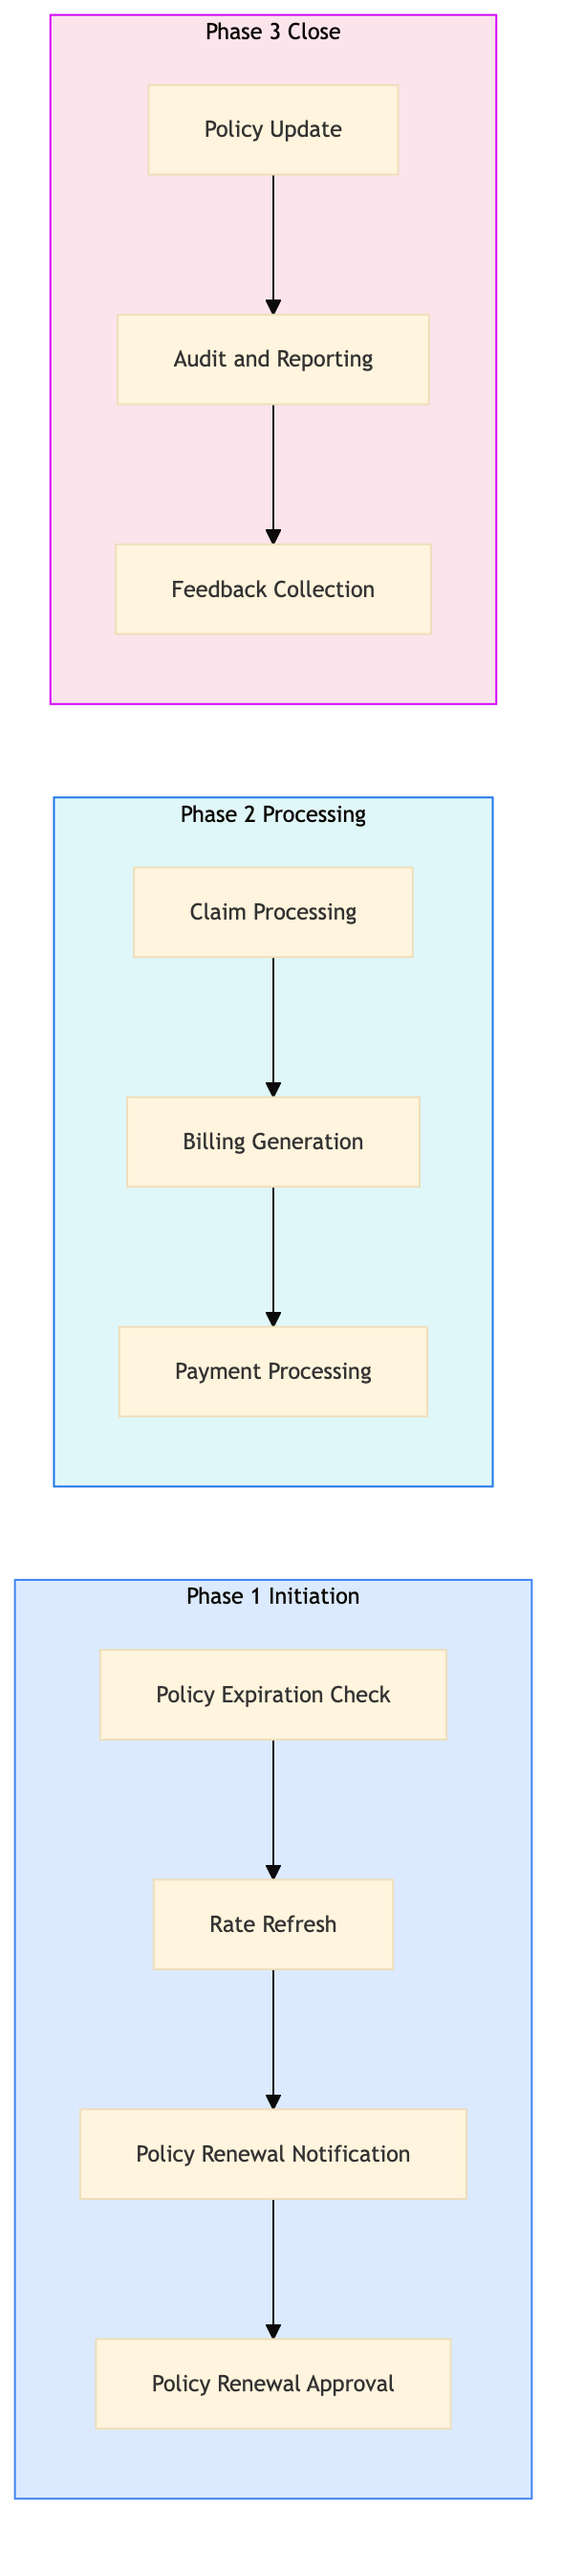
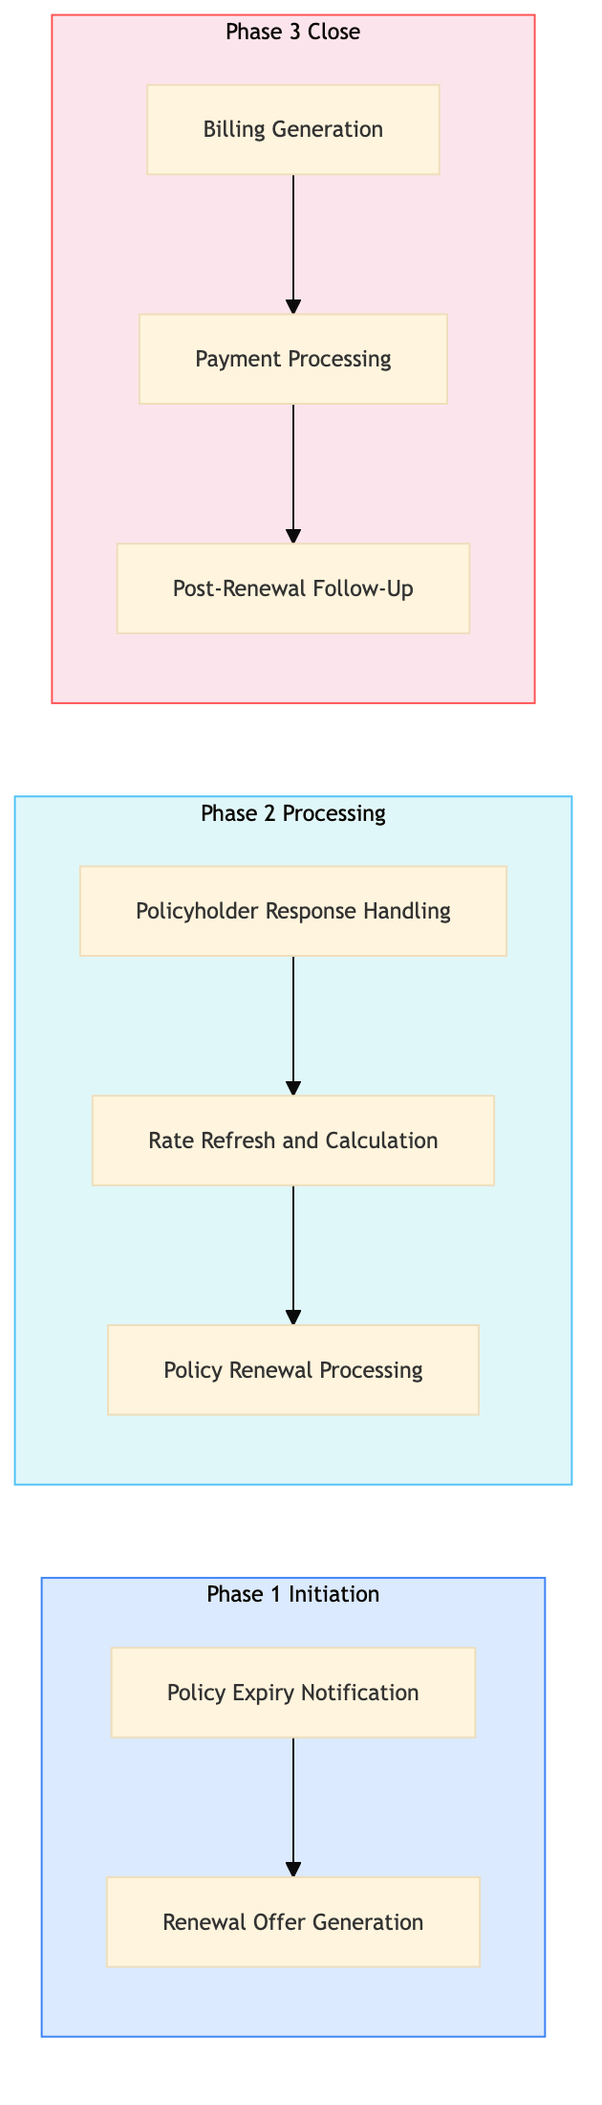
feat: add AAA-IN-PO-03 — Policy Renewal Processing and Rate Refresh

diff --git a/aaa-insurance/policy-administration/aaa-in-po-03.html b/aaa-insurance/policy-administration/aaa-in-po-03.html
@@ -23,40 +23,16 @@
     <div class="nav-l2-group">
       <a class="nav-l2-title" href="../../shared-membership/membership-enrolment/index.html">Membership Enrolment & Sales</a>
       <div class="nav-l3-list">
-        <a class="nav-l3" href="../../shared-membership/membership-enrolment/shared-mb-en-01.html">SHARED-MB-EN-01 &mdash; New Member Walk-In Enrolment (Branch)</a>
-        <a class="nav-l3" href="../../shared-membership/membership-enrolment/shared-mb-en-02.html">SHARED-MB-EN-02 &mdash; Online Membership Self-Enrolment (Web/Ap</a>
-        <a class="nav-l3" href="../../shared-membership/membership-enrolment/shared-mb-en-03.html">SHARED-MB-EN-03 &mdash; Phone Enrolment via Contact Centre</a>
-        <a class="nav-l3" href="../../shared-membership/membership-enrolment/shared-mb-en-04.html">SHARED-MB-EN-04 &mdash; Affiliate and Employer Group Enrolment</a>
-        <a class="nav-l3" href="../../shared-membership/membership-enrolment/shared-mb-en-05.html">SHARED-MB-EN-05 &mdash; Membership Tier Selection and Upsell</a>
-        <a class="nav-l3" href="../../shared-membership/membership-enrolment/shared-mb-en-06.html">SHARED-MB-EN-06 &mdash; Payment Processing and First-Year Billin</a>
-        <a class="nav-l3" href="../../shared-membership/membership-enrolment/shared-mb-en-07.html">SHARED-MB-EN-07 &mdash; Welcome Kit and Digital Card Issuance</a>
-        <a class="nav-l3" href="../../shared-membership/membership-enrolment/shared-mb-en-08.html">SHARED-MB-EN-08 &mdash; Duplicate Member Detection and Merge</a>
       </div>
     </div>
     <div class="nav-l2-group">
       <a class="nav-l2-title" href="../../shared-membership/membership-renewal/index.html">Membership Renewal & Retention</a>
       <div class="nav-l3-list">
-        <a class="nav-l3" href="../../shared-membership/membership-renewal/shared-mb-rn-01.html">SHARED-MB-RN-01 &mdash; Annual Renewal Notice Generation and Dis</a>
-        <a class="nav-l3" href="../../shared-membership/membership-renewal/shared-mb-rn-02.html">SHARED-MB-RN-02 &mdash; Auto-Renewal Processing (Credit Card on </a>
-        <a class="nav-l3" href="../../shared-membership/membership-renewal/shared-mb-rn-03.html">SHARED-MB-RN-03 &mdash; Lapsed Member Reinstatement Campaign</a>
-        <a class="nav-l3" href="../../shared-membership/membership-renewal/shared-mb-rn-04.html">SHARED-MB-RN-04 &mdash; Membership Upgrade and Tier Change Proce</a>
-        <a class="nav-l3" href="../../shared-membership/membership-renewal/shared-mb-rn-05.html">SHARED-MB-RN-05 &mdash; Associate and Household Member Add-On Pr</a>
-        <a class="nav-l3" href="../../shared-membership/membership-renewal/shared-mb-rn-06.html">SHARED-MB-RN-06 &mdash; Cancellation Request Handling and Save O</a>
-        <a class="nav-l3" href="../../shared-membership/membership-renewal/shared-mb-rn-07.html">SHARED-MB-RN-07 &mdash; Renewal Rate Review and Pricing Update</a>
-        <a class="nav-l3" href="../../shared-membership/membership-renewal/shared-mb-rn-08.html">SHARED-MB-RN-08 &mdash; Membership Winback Campaign (12-36 Month</a>
       </div>
     </div>
     <div class="nav-l2-group">
       <a class="nav-l2-title" href="../../shared-membership/member-services/index.html">Member Services & Benefits</a>
       <div class="nav-l3-list">
-        <a class="nav-l3" href="../../shared-membership/member-services/shared-mb-sv-01.html">SHARED-MB-SV-01 &mdash; Member Discount Partner Redemption</a>
-        <a class="nav-l3" href="../../shared-membership/member-services/shared-mb-sv-02.html">SHARED-MB-SV-02 &mdash; Passport Photo Service Delivery (Branch)</a>
-        <a class="nav-l3" href="../../shared-membership/member-services/shared-mb-sv-03.html">SHARED-MB-SV-03 &mdash; International Driving Permit (IDP) Proce</a>
-        <a class="nav-l3" href="../../shared-membership/member-services/shared-mb-sv-04.html">SHARED-MB-SV-04 &mdash; Notary and Document Authentication Servi</a>
-        <a class="nav-l3" href="../../shared-membership/member-services/shared-mb-sv-05.html">SHARED-MB-SV-05 &mdash; Member Portal Profile and Preferences Ma</a>
-        <a class="nav-l3" href="../../shared-membership/member-services/shared-mb-sv-06.html">SHARED-MB-SV-06 &mdash; Lost and Stolen Membership Card Replacem</a>
-        <a class="nav-l3" href="../../shared-membership/member-services/shared-mb-sv-07.html">SHARED-MB-SV-07 &mdash; Member Data Privacy Request (CCPA and PI</a>
-        <a class="nav-l3" href="../../shared-membership/member-services/shared-mb-sv-08.html">SHARED-MB-SV-08 &mdash; Member Satisfaction Survey and NPS Track</a>
       </div>
     </div>
   </div>
@@ -290,7 +266,7 @@
           <span class="pid-badge org-badge-aaa">AAA</span>
           AAA-IN-PO-03 &mdash; Policy Renewal Processing and Rate Refresh
         </h1>
-        <p>The Policy Renewal Processing and Rate Refresh process involves the renewal of policies for AAA Northeast members using Guidewire Cloud, Sabre GDS, Verisk ISO rating, Salesforce, and USD. This ensures timely policy updates and accurate rate calculations.</p>
+        <p>The Policy Renewal Processing and Rate Refresh process involves the renewal of policies for AAA Northeast members using Guidewire Cloud, Sabre, Verisk, Salesforce, and USD systems. This ensures timely policy renewals and accurate rate calculations.</p>
       </div>
 
       <!-- BPMN Diagram -->
@@ -316,10 +292,10 @@
             <tr><th>L1 Domain</th><td>AAA Insurance</td></tr>
             <tr><th>L2 Process</th><td>Policy Administration</td></tr>
             <tr><th>L3 Name</th><td>Policy Renewal Processing and Rate Refresh</td></tr>
-            <tr><th>Trigger</th><td>Automatic system trigger at policy expiration date</td></tr>
-            <tr><th>Outcome</th><td>Successful completion results in renewed policies with updated rates, processed claims, and accurate billing for AAA Northeast members.</td></tr>
-            <tr><th>Org Notes</th><td>AAA Northeast focuses on leveraging Guidewire Cloud for streamlined policy administration, while CAA may use different systems like Guidewire InsuranceSuite. Additionally, AAA uses Verisk ISO rating for underwriting decisions, whereas CAA might rely on other sources.</td></tr>
-            <tr><th>Systems</th><td><span class="sys-tag guidewire">Guidewire PolicyCenter</span> <span class="sys-tag verisk">Verisk ISO rating</span> <span class="sys-tag salesforce">Salesforce</span> <span class="sys-tag grasshopper">Grasshopper Bank</span> <span class="sys-tag comenity">Comenity Bank</span></td></tr>
+            <tr><th>Trigger</th><td>Policy expiration date approaching</td></tr>
+            <tr><th>Outcome</th><td>Successful completion results in renewed policies with updated rates, processed claims, and accurate billing.</td></tr>
+            <tr><th>Org Notes</th><td>AAA Northeast focuses on direct member engagement through licensed insurance agents, while CAA may have a more centralized approach to policy administration.</td></tr>
+            <tr><th>Systems</th><td><span class="sys-tag guidewire">Guidewire PolicyCenter</span> <span class="sys-tag salesforce">Salesforce</span> <span class="sys-tag verisk">Verisk ISO rating</span> <span class="sys-tag grasshopper">Grasshopper Bank</span></td></tr>
           </table>
         </div>
       </div>
@@ -340,121 +316,97 @@
               <tbody>
         <tr>
           <td class="step-num">1.1</td>
-          <td>Policy Expiration Check</td>
-          <td>System Administrator</td>
+          <td>Policy Expiry Notification</td>
+          <td>Claims Adjuster</td>
           <td><span class="sys-tag guidewire">Guidewire PolicyCenter</span></td>
-          <td>Policy expiration date</td>
-          <td>List of expired policies</td>
-          <td>Time to detect policy expiration < 24 hours</td>
-          <td>Late detection of policy expirations leading to missed renewals</td>
+          <td>Policy expiry date</td>
+          <td>Notification to policyholder</td>
+          <td>Response time within 24 hours of policy expiry</td>
+          <td>Delays in notifications can lead to missed renewal opportunities.</td>
           <td>N</td>
           <td><span class="exception-y">Y</span></td>
         </tr>
         <tr>
           <td class="step-num">1.2</td>
-          <td>Rate Refresh</td>
-          <td>Data Analyst</td>
-          <td><span class="sys-tag verisk">Verisk ISO rating</span></td>
-          <td>Policy details and market data</td>
-          <td>Updated rates</td>
-          <td>Accuracy of rate refresh > 95%</td>
-          <td>Inaccurate rate calculations affecting policy premiums</td>
-          <td>N</td>
-          <td><span class="exception-y">Y</span></td>
-        </tr>
-        <tr>
-          <td class="step-num">1.3</td>
-          <td>Policy Renewal Notification</td>
-          <td>Customer Service Representative</td>
-          <td><span class="sys-tag salesforce">Salesforce</span></td>
-          <td>List of expired policies and updated rates</td>
-          <td>Renewal notification emails</td>
-          <td>Notification sent within 24 hours of policy expiration</td>
-          <td>Delayed notifications causing member dissatisfaction</td>
-          <td>N</td>
-          <td><span class="exception-y">Y</span></td>
-        </tr>
-        <tr>
-          <td class="step-num">1.4</td>
-          <td>Policy Renewal Approval</td>
-          <td>Underwriter</td>
+          <td>Renewal Offer Generation</td>
+          <td>Licensed Insurance Agent</td>
           <td><span class="sys-tag guidewire">Guidewire PolicyCenter</span></td>
-          <td>Renewal notification emails and policy details</td>
-          <td>Approved renewal policies</td>
-          <td>Approval rate > 90%</td>
-          <td>High rejection rates affecting customer retention</td>
-          <td><span class="decision-y">Y</span></td>
+          <td>Policyholder data and preferences</td>
+          <td>Renewal offer letter</td>
+          <td>Offer generation within 7 days of policy expiry</td>
+          <td>Inaccurate offers can lead to customer dissatisfaction.</td>
           <td>N</td>
+          <td><span class="exception-y">Y</span></td>
         </tr>
         <tr>
           <td class="step-num">2.1</td>
-          <td>Claim Processing</td>
-          <td>Claims Adjuster</td>
-          <td><span class="sys-tag guidewire">Guidewire ClaimCenter</span></td>
-          <td>Policy details and claim information</td>
-          <td>Processed claims</td>
-          <td>Average time to process claim < 30 days</td>
-          <td>Delays in claim processing affecting member satisfaction</td>
+          <td>Policyholder Response Handling</td>
+          <td>Licensed Insurance Agent</td>
+          <td><span class="sys-tag salesforce">Salesforce</span></td>
+          <td>Policyholder response (acceptance or rejection)</td>
+          <td>Response logged in Salesforce</td>
+          <td>90% response rate within 14 days of offer generation</td>
+          <td>Low response rates can impact revenue.</td>
           <td><span class="decision-y">Y</span></td>
-          <td><span class="exception-y">Y</span></td>
+          <td>N</td>
         </tr>
         <tr>
           <td class="step-num">2.2</td>
-          <td>Billing Generation</td>
-          <td>Billing Specialist</td>
-          <td><span class="sys-tag guidewire">Guidewire BillingCenter</span></td>
-          <td>Approved renewal policies and processed claims</td>
-          <td>Invoices</td>
-          <td>Accuracy of billing > 98%</td>
-          <td>Billing errors leading to disputes</td>
+          <td>Rate Refresh and Calculation</td>
+          <td>Claims Adjuster</td>
+          <td><span class="sys-tag verisk">Verisk ISO rating</span></td>
+          <td>Policyholder data and market conditions</td>
+          <td>Updated policy rates</td>
+          <td>Accuracy of rate calculations within 3 days of response handling</td>
+          <td>Incorrect rates can lead to legal issues.</td>
           <td>N</td>
           <td><span class="exception-y">Y</span></td>
         </tr>
         <tr>
           <td class="step-num">2.3</td>
-          <td>Payment Processing</td>
-          <td>Financial Analyst</td>
-          <td><span class="sys-tag grasshopper">Grasshopper Bank, Comenity Bank</span></td>
-          <td>Invoices and payment information</td>
-          <td>Processed payments</td>
-          <td>Payment processing time < 5 days</td>
-          <td>Delays in payment processing affecting cash flow</td>
+          <td>Policy Renewal Processing</td>
+          <td>Claims Adjuster</td>
+          <td><span class="sys-tag guidewire">Guidewire PolicyCenter</span></td>
+          <td>Updated policy rates and policyholder response</td>
+          <td>Renewed policy in Guidewire PolicyCenter</td>
+          <td>95% successful renewals within 1 month of policy expiry</td>
+          <td>Failed renewals can increase claim costs.</td>
           <td>N</td>
           <td><span class="exception-y">Y</span></td>
         </tr>
         <tr>
           <td class="step-num">3.1</td>
-          <td>Policy Update</td>
-          <td>System Administrator</td>
-          <td><span class="sys-tag guidewire">Guidewire PolicyCenter</span></td>
-          <td>Processed payments and policy details</td>
-          <td>Updated policy records</td>
-          <td>Time to update policies < 24 hours</td>
-          <td>Late updates causing data discrepancies</td>
+          <td>Billing Generation</td>
+          <td>Claims Adjuster</td>
+          <td><span class="sys-tag guidewire">Guidewire BillingCenter</span></td>
+          <td>Renewed policy details and rates</td>
+          <td>Invoice for renewal payment</td>
+          <td>Invoices generated within 5 days of policy renewal processing</td>
+          <td>Late invoices can lead to late payments.</td>
           <td>N</td>
           <td><span class="exception-y">Y</span></td>
         </tr>
         <tr>
           <td class="step-num">3.2</td>
-          <td>Audit and Reporting</td>
-          <td>Compliance Officer</td>
-          <td><span class="sys-tag guidewire">Guidewire PolicyCenter, Salesforce</span></td>
-          <td>Updated policy records and processed claims</td>
-          <td>Audit reports</td>
-          <td>Audit completion rate > 95%</td>
-          <td>Incomplete audits leading to compliance issues</td>
+          <td>Payment Processing</td>
+          <td>Claims Adjuster</td>
+          <td><span class="sys-tag grasshopper">Grasshopper Bank</span></td>
+          <td>Renewal payment from policyholder</td>
+          <td>Processed payment in Grasshopper Bank</td>
+          <td>90% successful payments within 10 days of invoice generation</td>
+          <td>Failed payments can lead to non-renewals.</td>
           <td>N</td>
           <td><span class="exception-y">Y</span></td>
         </tr>
         <tr>
           <td class="step-num">3.3</td>
-          <td>Feedback Collection</td>
-          <td>Customer Service Representative</td>
+          <td>Post-Renewal Follow-Up</td>
+          <td>Licensed Insurance Agent</td>
           <td><span class="sys-tag salesforce">Salesforce</span></td>
-          <td>Audit reports and member interactions</td>
-          <td>Member feedback</td>
-          <td>Response rate to feedback requests > 80%</td>
-          <td>Low response rates affecting member engagement</td>
+          <td>Payment confirmation and policy details</td>
+          <td>Follow-up call or email to policyholder</td>
+          <td>95% follow-up rate within 2 weeks of payment processing</td>
+          <td>Low follow-up rates can reduce customer satisfaction.</td>
           <td>N</td>
           <td><span class="exception-y">Y</span></td>
         </tr>
@@ -469,9 +421,9 @@
         <div class="card-header">&#x1F4CA; KPIs &amp; Risk Register</div>
         <div class="card-body">
           <p class="mb-8"><strong>KPIs</strong></p>
-          <div class="kpi-list mb-8"><span class="kpi-pill">Time to detect policy expiration < 24 hours</span> <span class="kpi-pill">Accuracy of rate refresh > 95%</span> <span class="kpi-pill">Notification sent within 24 hours of policy expiration</span> <span class="kpi-pill">Approval rate > 90%</span> <span class="kpi-pill">Average time to process claim < 30 days</span> <span class="kpi-pill">Accuracy of billing > 98%</span> <span class="kpi-pill">Payment processing time < 5 days</span> <span class="kpi-pill">Time to update policies < 24 hours</span> <span class="kpi-pill">Audit completion rate > 95%</span> <span class="kpi-pill">Response rate to feedback requests > 80%</span></div>
+          <div class="kpi-list mb-8"><span class="kpi-pill">Response time within 24 hours of policy expiry</span> <span class="kpi-pill">Offer generation within 7 days of policy expiry</span> <span class="kpi-pill">90% response rate within 14 days of offer generation</span> <span class="kpi-pill">Accuracy of rate calculations within 3 days of response handling</span> <span class="kpi-pill">95% successful renewals within 1 month of policy expiry</span> <span class="kpi-pill">Invoices generated within 5 days of policy renewal processing</span> <span class="kpi-pill">90% successful payments within 10 days of invoice generation</span> <span class="kpi-pill">95% follow-up rate within 2 weeks of payment processing</span></div>
           <p class="mb-8" style="margin-top:16px"><strong>Key Risks</strong></p>
-          <div class="kpi-list"><span class="risk-pill">Late detection of policy expirations leading to missed renewals</span> <span class="risk-pill">Inaccurate rate calculations affecting policy premiums</span> <span class="risk-pill">Delayed notifications causing member dissatisfaction</span> <span class="risk-pill">High rejection rates affecting customer retention</span> <span class="risk-pill">Delays in claim processing affecting member satisfaction</span> <span class="risk-pill">Billing errors leading to disputes</span> <span class="risk-pill">Delays in payment processing affecting cash flow</span> <span class="risk-pill">Late updates causing data discrepancies</span> <span class="risk-pill">Incomplete audits leading to compliance issues</span> <span class="risk-pill">Low response rates affecting member engagement</span></div>
+          <div class="kpi-list"><span class="risk-pill">Delays in notifications can lead to missed renewal opportunities.</span> <span class="risk-pill">Inaccurate offers can lead to customer dissatisfaction.</span> <span class="risk-pill">Incorrect rates can lead to legal issues.</span> <span class="risk-pill">Failed renewals can increase claim costs.</span> <span class="risk-pill">Late invoices can lead to late payments.</span></div>
         </div>
       </div>
 

diff --git a/aaa-insurance/policy-administration/index.html b/aaa-insurance/policy-administration/index.html
@@ -57,6 +57,7 @@
       <a class="nav-l2-title" href="../../aaa-insurance/policy-administration/index.html">Policy Administration</a>
       <div class="nav-l3-list">
         <a class="nav-l3" href="../../aaa-insurance/policy-administration/aaa-in-po-01.html">AAA-IN-PO-01 &mdash; New Policy Issuance and Document Generat</a>
+        <a class="nav-l3" href="../../aaa-insurance/policy-administration/aaa-in-po-02.html">AAA-IN-PO-02 &mdash; Policy Endorsement and Mid-Term Change P</a>
       </div>
     </div>
     <div class="nav-l2-group">
@@ -258,7 +259,7 @@
           <a href="../index.html">AAA Insurance</a>
         </div>
         <h1>🛡 Policy Administration</h1>
-        <p>1 of 8 processes complete</p>
+        <p>2 of 8 processes complete</p>
       </div>
       <div class="card">
         <div class="card-header">Process List</div>
@@ -266,7 +267,7 @@
           <table class="l4-table" style="min-width:500px">
             <thead><tr><th>PID</th><th>L3 Process Name</th><th>Status</th></tr></thead>
             <tbody><tr><td><a href="aaa-in-po-01.html">AAA-IN-PO-01</a></td><td>New Policy Issuance and Document Generation</td><td><span style="color:#16a34a;font-weight:700">&#x2705; Complete</span></td></tr>
-<tr><td>AAA-IN-PO-02</td><td>Policy Endorsement and Mid-Term Change Processing</td><td><span style="color:#94a3b8">&#x23F3; Queued</span></td></tr>
+<tr><td><a href="aaa-in-po-02.html">AAA-IN-PO-02</a></td><td>Policy Endorsement and Mid-Term Change Processing</td><td><span style="color:#16a34a;font-weight:700">&#x2705; Complete</span></td></tr>
 <tr><td>AAA-IN-PO-03</td><td>Policy Renewal Processing and Rate Refresh</td><td><span style="color:#94a3b8">&#x23F3; Queued</span></td></tr>
 <tr><td>AAA-IN-PO-04</td><td>Non-Renewal and Cancellation Processing</td><td><span style="color:#94a3b8">&#x23F3; Queued</span></td></tr>
 <tr><td>AAA-IN-PO-05</td><td>State DOI Filing and Rate Filing Compliance</td><td><span style="color:#94a3b8">&#x23F3; Queued</span></td></tr>

diff --git a/index.html b/index.html
@@ -57,6 +57,7 @@
       <a class="nav-l2-title" href="aaa-insurance/policy-administration/index.html">Policy Administration</a>
       <div class="nav-l3-list">
         <a class="nav-l3" href="aaa-insurance/policy-administration/aaa-in-po-01.html">AAA-IN-PO-01 &mdash; New Policy Issuance and Document Generat</a>
+        <a class="nav-l3" href="aaa-insurance/policy-administration/aaa-in-po-02.html">AAA-IN-PO-02 &mdash; Policy Endorsement and Mid-Term Change P</a>
       </div>
     </div>
     <div class="nav-l2-group">
@@ -258,9 +259,9 @@
       </div>
 
       <div class="stats-bar">
-        <div class="stat-card"><div class="stat-num">11</div><div class="stat-label">Processes Complete</div></div>
+        <div class="stat-card"><div class="stat-num">12</div><div class="stat-label">Processes Complete</div></div>
         <div class="stat-card"><div class="stat-num">268</div><div class="stat-label">Total Processes</div></div>
-        <div class="stat-card"><div class="stat-num">11</div><div class="stat-label">AAA Complete</div></div>
+        <div class="stat-card"><div class="stat-num">12</div><div class="stat-label">AAA Complete</div></div>
         <div class="stat-card"><div class="stat-num caa-red">0</div><div class="stat-label">CAA Complete</div></div>
         <div class="stat-card"><div class="stat-num">0</div><div class="stat-label">Shared Complete</div></div>
       </div>
@@ -280,7 +281,7 @@
         <span class="nav-org-dot aaa" style="display:inline-block;margin-right:4px"></span>
         AAA
       </p>
-      <p class="card-count">11 / 34 processes complete</p>
+      <p class="card-count">12 / 34 processes complete</p>
     </div>
     <div class="domain-card org-caa">
       <h3><a href="caa-insurance/index.html">🍁 CAA Insurance (Ontario)</a></h3>

diff --git a/aaa-insurance/index.html b/aaa-insurance/index.html
@@ -57,6 +57,7 @@
       <a class="nav-l2-title" href="../aaa-insurance/policy-administration/index.html">Policy Administration</a>
       <div class="nav-l3-list">
         <a class="nav-l3" href="../aaa-insurance/policy-administration/aaa-in-po-01.html">AAA-IN-PO-01 &mdash; New Policy Issuance and Document Generat</a>
+        <a class="nav-l3" href="../aaa-insurance/policy-administration/aaa-in-po-02.html">AAA-IN-PO-02 &mdash; Policy Endorsement and Mid-Term Change P</a>
       </div>
     </div>
     <div class="nav-l2-group">
@@ -255,7 +256,7 @@
       <div class="page-header">
         <div class="breadcrumb"><a href="../index.html">Home</a></div>
         <h1>🛡 AAA Insurance</h1>
-        <p>11 of 34 processes complete across 4 process groups</p>
+        <p>12 of 34 processes complete across 4 process groups</p>
       </div>
       <div class="domain-grid">    <div class="domain-card org-aaa">
       <h3><a href="insurance-quoting/index.html">Quoting & Underwriting</a></h3>
@@ -263,7 +264,7 @@
     </div>
     <div class="domain-card org-aaa">
       <h3><a href="policy-administration/index.html">Policy Administration</a></h3>
-      <p class="card-meta">1/8 processes complete</p>
+      <p class="card-meta">2/8 processes complete</p>
     </div>
     <div class="domain-card org-aaa">
       <h3><a href="insurance-billing/index.html">Billing & Premium Management</a></h3>
